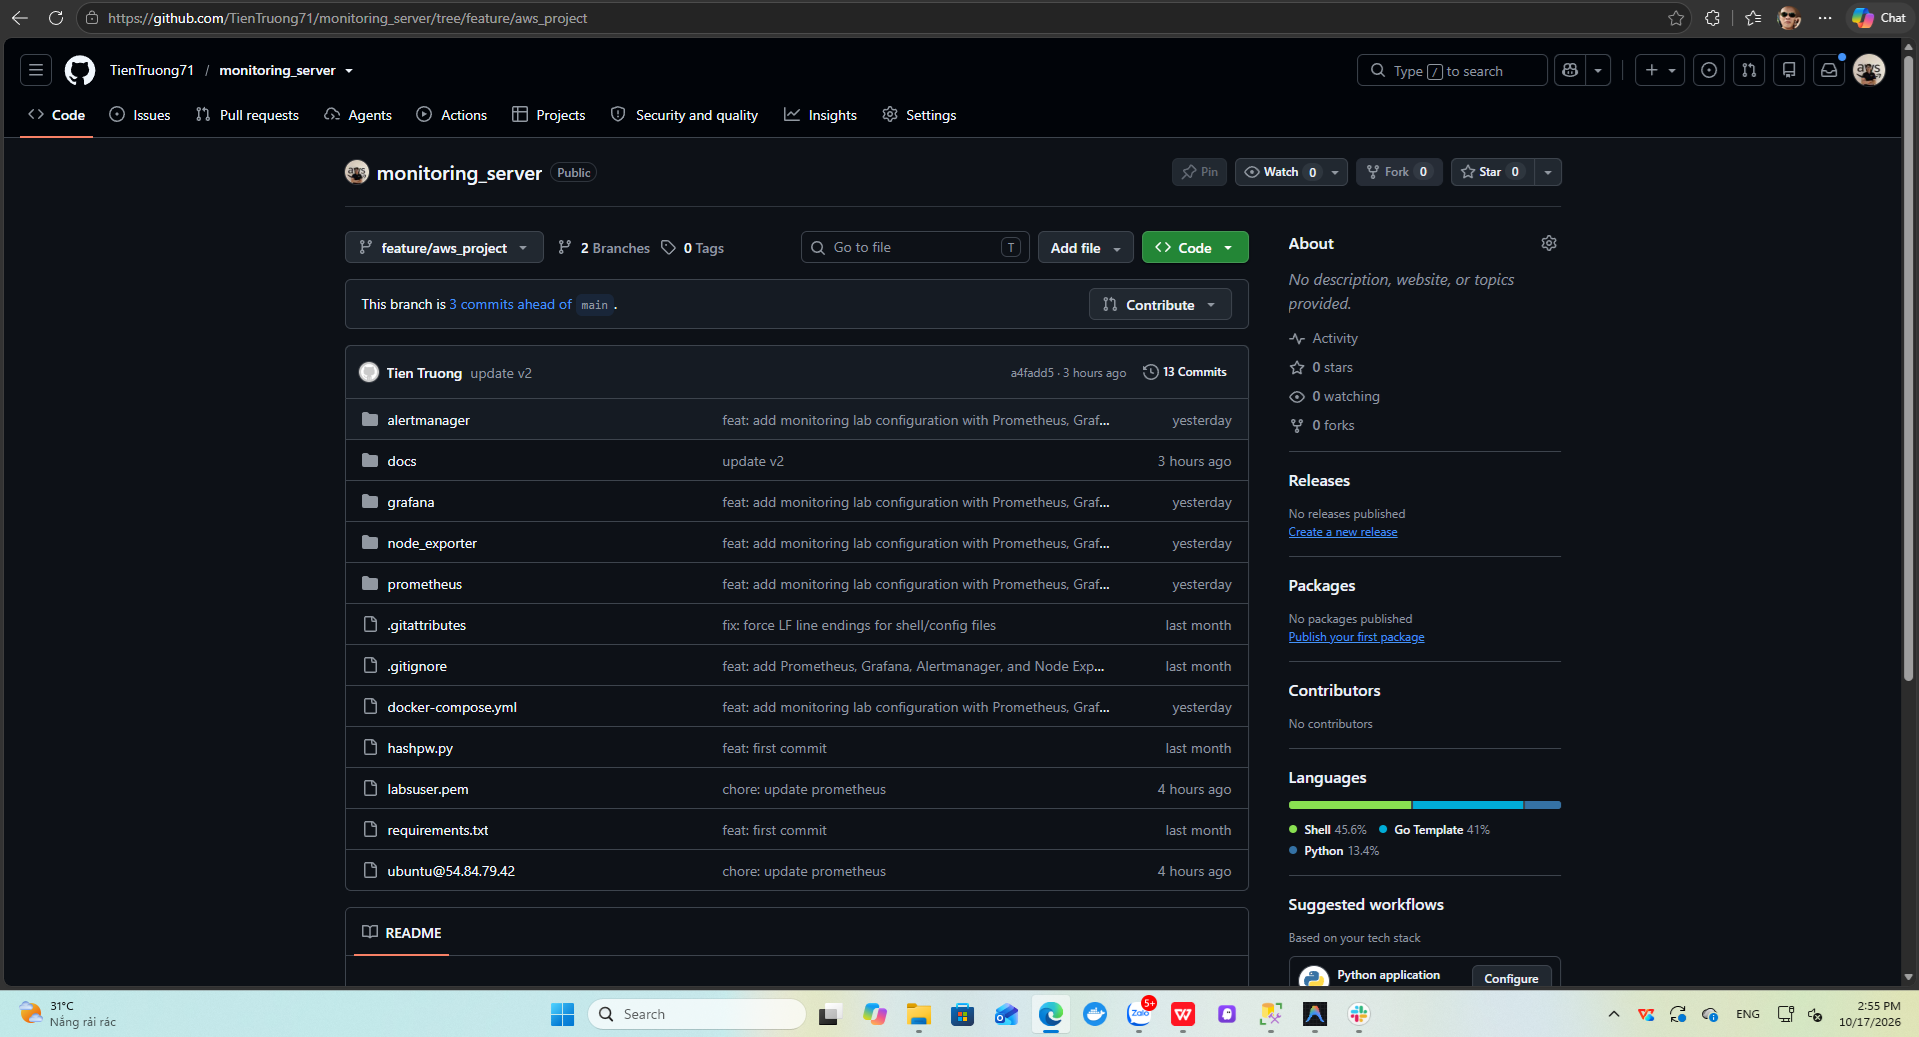
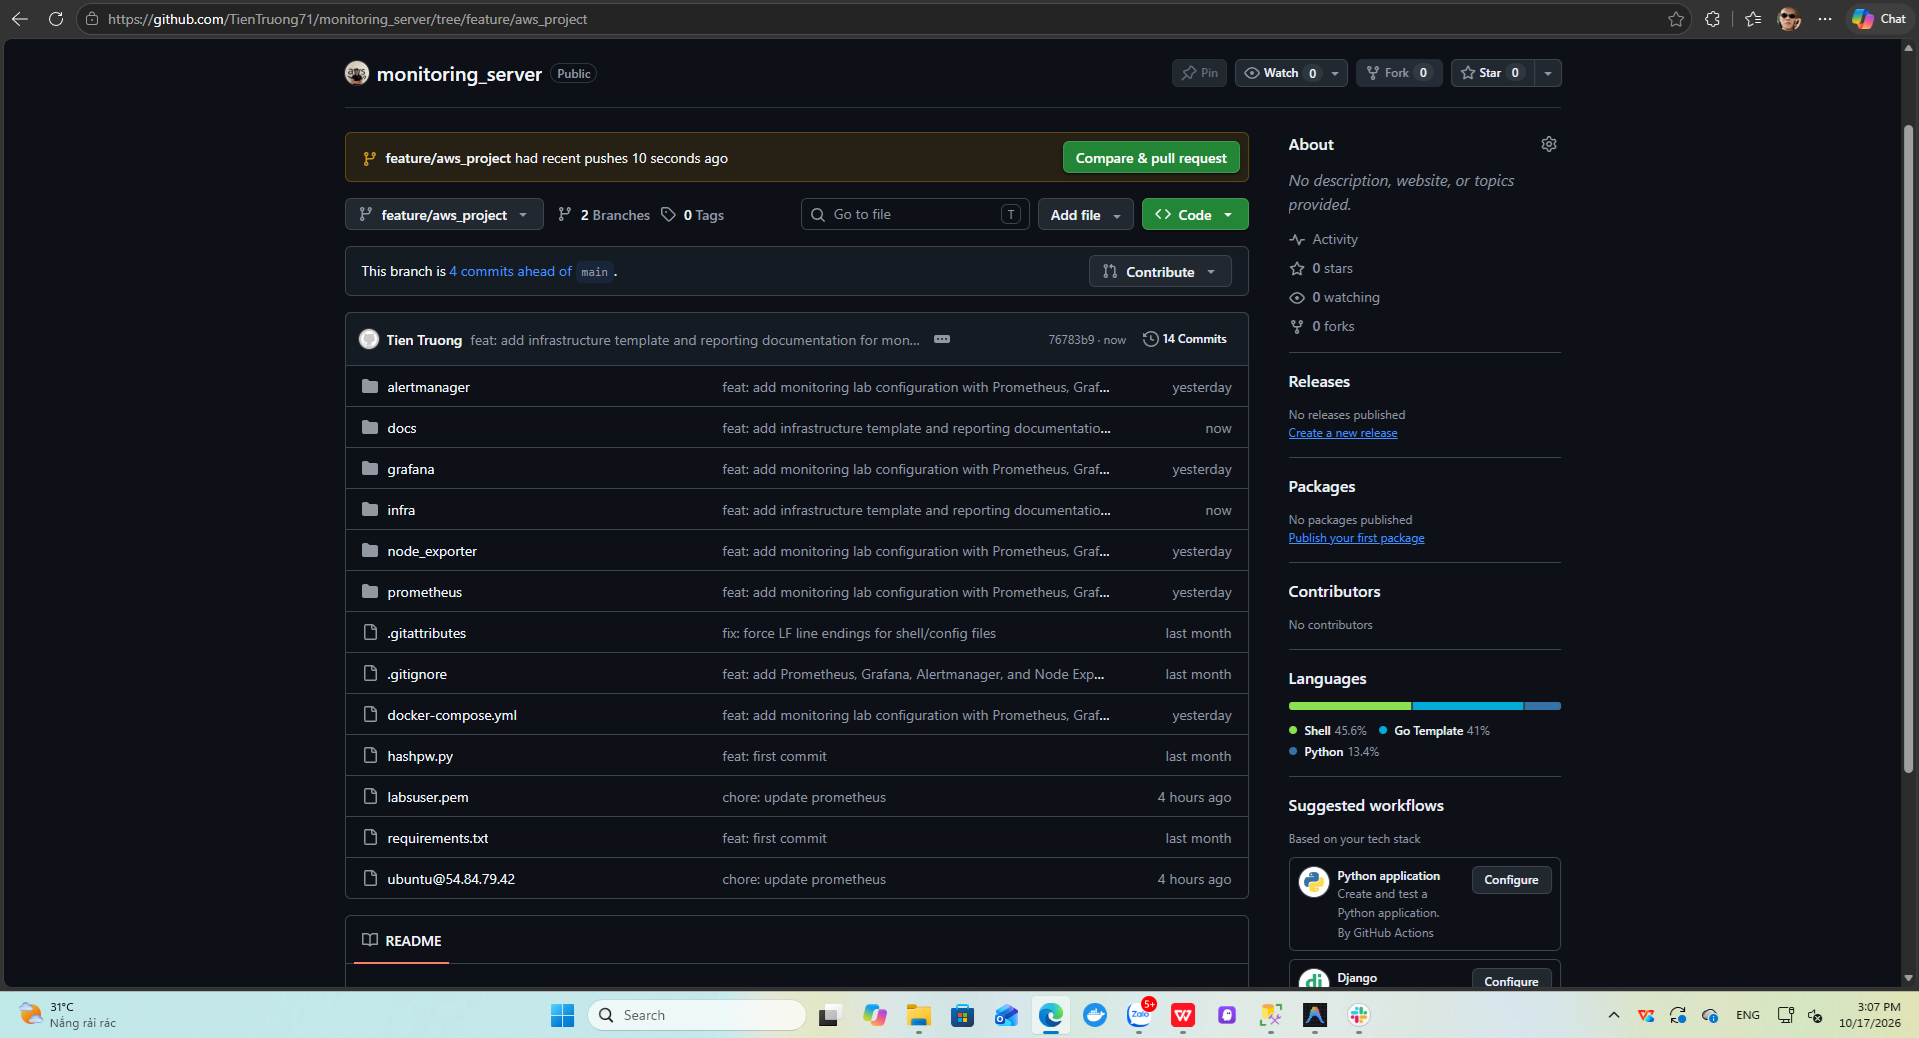
update

diff --git a/docs/reports/week3.md b/docs/reports/week3.md
@@ -325,12 +325,19 @@ Template đã được kiểm tra cú pháp bằng `cfn-lint` (không có lỗi)
 
 ![Ảnh 3.17](images/w3-17-cloudformation.png)
 
-> **[ẢNH 3.18] Outputs và target do user data cài sẵn**
-> - Chụp tại: **CloudFormation → prom-monitoring → tab Outputs**, kèm terminal SSH vào web-1 mới chạy lệnh ở bước 5
-> - Phải thấy: Public IP và URL; `active` `active` `401`
-> - Lưu file: `images/w3-18-cfn-outputs.png`
+> **[ẢNH 3.18] EC2 do stack tạo**
+> - Chụp tại: **EC2 → Instances**, ô tìm kiếm lọc `aws:cloudformation:stack-name = prom-monitoring`
+> - Phải thấy: 4 máy `monitor`, `web-1`, `web-2`, `db-1` trạng thái Running, đúng instance type (t3.medium / t3.micro), cột Private IP dạng `10.20.1.x`
+> - Lưu file: `images/w3-18-cfn-instances.png`
 
-![Ảnh 3.18](images/w3-18-cfn-outputs.png)
+![Ảnh 3.18](images/w3-18-cfn-instances.png)
+
+> **[ẢNH 3.19] Target được user data cài sẵn dịch vụ**
+> - Chụp tại: **terminal SSH vào web-1**, chạy 2 lệnh ở bước 5
+> - Phải thấy: hai dòng `active` (node_exporter, amazon-cloudwatch-agent); `curl` không kèm mật khẩu trả về **401**
+> - Lưu file: `images/w3-19-cfn-target-check.png`
+
+![Ảnh 3.19](images/w3-19-cfn-target-check.png)
 
 ### 9.3 Dọn dẹp
 
@@ -340,6 +347,13 @@ aws cloudformation wait stack-delete-complete --stack-name prom-monitoring
 ```
 
 Xóa stack sẽ xóa toàn bộ tài nguyên đã tạo (EC2, EBS, SG, VPC), tránh tốn credit Learner Lab. Các alarm và dashboard CloudWatch tạo bằng tay ở mục 4–5 không nằm trong stack nên không bị ảnh hưởng.
+
+> **[ẢNH 3.20] Stack đã được xóa**
+> - Chụp tại: **CloudFormation → Stacks**, bộ lọc trạng thái chọn **Deleted**
+> - Phải thấy: stack `prom-monitoring` ở trạng thái **DELETE_COMPLETE** kèm thời gian xóa
+> - Lưu file: `images/w3-20-cfn-deleted.png`
+
+![Ảnh 3.20](images/w3-20-cfn-deleted.png)
 
 ## 10. Kết quả tuần 3
 
